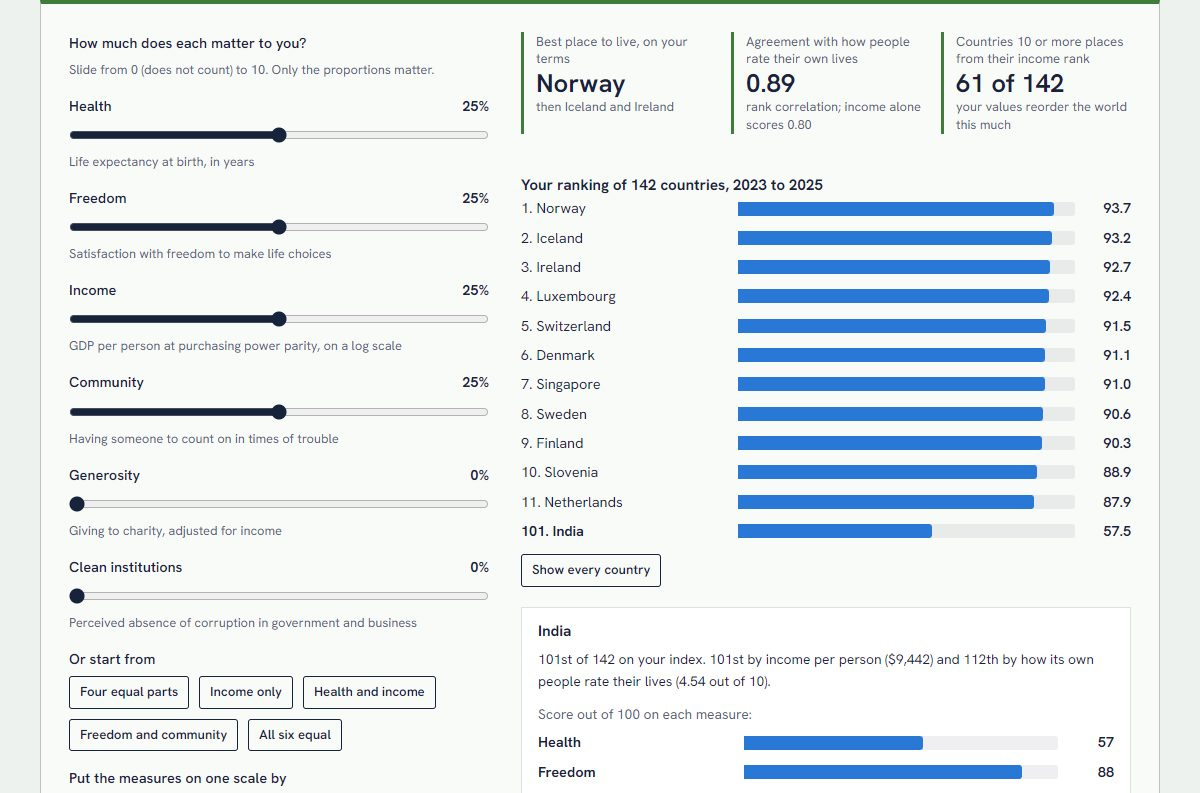
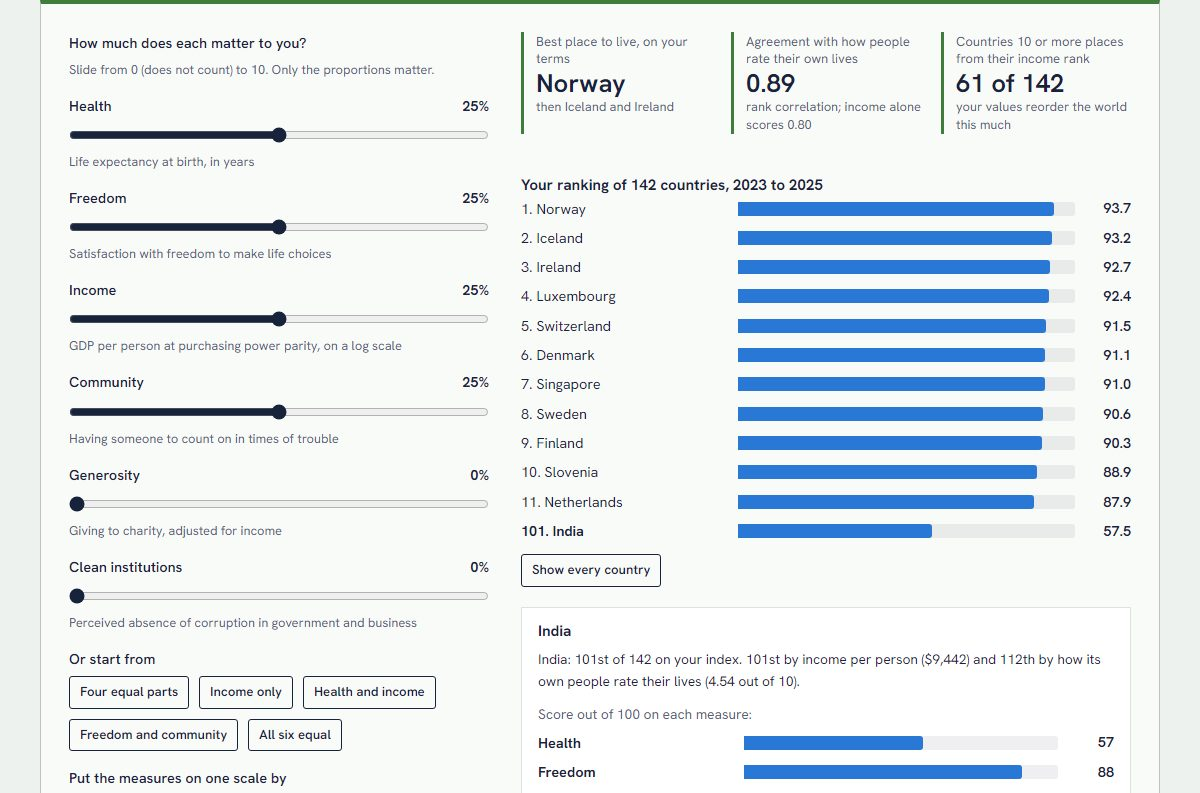
Review project 9: rank range includes single-measure rankings, quieter slider readouts

Changed region(s): [[0.4317, 0.8172, 0.925, 0.8777], [0.4317, 0.2421, 0.4933, 0.2724]]

diff --git a/365projects/9/app.js b/365projects/9/app.js
@@ -28,6 +28,9 @@ const sliders = DIMENSIONS.map((d) => slider({
   label: d.label, min: 0, max: 10, step: 1, value: state.weights[d.key], hint: d.measure,
   format: () => "", onInput: (v) => { state.weights[d.key] = v; update(); },
 }));
+// Moving one slider changes all six shares. Each readout is spoken as its own slider's value (aria-valuetext, set in
+// update), so the readouts themselves stay quiet: six announcements for one key press help nobody.
+for (const s of sliders) s.el.querySelector("output").setAttribute("aria-live", "off");
 const presetRow = el("div", { class: "row" }, PRESETS.map((p) => button(p.label, () => {
   state.weights = { ...p.w };
   sliders.forEach((s, i) => { s.value = state.weights[KEYS[i]]; });
@@ -55,12 +58,19 @@ const pick = select({
 const sTop = stat("Best place to live, on your terms");
 const sRho = stat("Agreement with how people rate their own lives");
 const sMoved = stat("Countries 10 or more places from their income rank");
-const message = el("div");
+const message = el("div", { role: "status" });
 const rankBox = el("div");
 const tableBox = el("div");
 const moreBtn = button("Show every country", () => { state.showAll = !state.showAll; update(); }, { small: true });
 const moversBox = el("div", { class: "grid2" });
-const cardBox = el("div");
+// The card for the selected country is built once and its parts updated, so that its opening line can be a live
+// region that is announced when the country or its rank changes.
+const cardTitle = el("h3");
+const cardLead = el("p", { class: "small", role: "status", style: { margin: "8px 0 12px" } });
+const profile = el("div");
+const cardRange = el("p", { class: "small", style: { marginTop: "12px" } });
+const cardBox = el("div", { class: "panel" }, cardTitle, cardLead, el("p", { class: "small muted", style: { marginBottom: "6px" }, text: "Score out of 100 on each measure:" }), profile, cardRange);
+const profileBars = bars(profile, { items: [], max: 100, format: fmt.int });
 const chartBox = el("div");
 const rankBars = bars(rankBox, { items: [], max: 100, format: (v) => fmt.num(v, 1) });
 const plot = chart(chartBox, { series: [], height: 320 });
@@ -72,36 +82,43 @@ $("#app").append(el("div", { class: "tool-grid wide-controls" },
     el("div", { class: "field" }, el("div", { class: "lab" }, el("span", { text: "Or start from" })), presetRow),
     methodSeg.el, aggSeg.el, pick.el),
   el("div", { class: "out" },
-    el("div", { class: "stats" }, sTop.el, sRho.el, sMoved.el),
+    el("div", { class: "stats", role: "status" }, sTop.el, sRho.el, sMoved.el),
     message,
     el("div", {}, el("p", { class: "chart-title", text: `Your ranking of ${rows.length} countries, ${YEAR - 2} to ${YEAR}` }), rankBox, el("div", { class: "row", style: { marginTop: "12px" } }, moreBtn), tableBox),
     cardBox, moversBox, chartBox)));
 
+// Results sit in live regions, so they are only rewritten when they change.
+const setText = (node, text) => { if (node.textContent !== text) node.textContent = text; };
+const setStat = (s, value, text) => { if (s.el.textContent !== s.el.firstChild.textContent + value + text) s.set(value, text); };
 const ordinal = (n) => `${fmt.int(n)}${["th", "st", "nd", "rd"][n % 100 > 10 && n % 100 < 14 ? 0 : Math.min(n % 10, 4) % 4]}`;
 
 function update() {
   const w = shares(state.weights);
   // Each slider shows its share of the total.
-  sliders.forEach((s, i) => { s.el.querySelector("output").textContent = w ? fmt.pct(w[KEYS[i]], 0) : "0%"; });
+  sliders.forEach((s, i) => {
+    const share = w ? fmt.pct(w[KEYS[i]], 0) : "0%";
+    s.el.querySelector("output").textContent = share;
+    s.input.setAttribute("aria-valuetext", `${s.value} out of 10, ${share} of the total weight`);
+  });
 
   if (!w) {
     message.replaceChildren(note("warn", "Every weight is zero, so there is nothing to rank by. Give at least one measure some weight."));
-    for (const s of [sTop, sRho, sMoved]) s.set("–", "");
+    for (const s of [sTop, sRho, sMoved]) setStat(s, "–", "");
     rankBars.update([]);
-    tableBox.replaceChildren(); moversBox.replaceChildren(); cardBox.replaceChildren();
-    moreBtn.hidden = true;
+    tableBox.replaceChildren(); moversBox.replaceChildren();
+    moreBtn.hidden = cardBox.hidden = true;
     plot.update({ series: [], marks: [], empty: "Nothing to plot yet" });
     return;
   }
   message.replaceChildren();
-  moreBtn.hidden = false;
+  moreBtn.hidden = cardBox.hidden = false;
 
   const ranking = rank(scored, state.weights, state.aggregate);
   const rho = spearman(ranking.map((r) => r.index), ranking.map((r) => r.ladder));
   const moved = ranking.filter((r) => Math.abs(byIncome[r.name] - r.rank) >= 10).length;
-  sTop.set(ranking[0].name, `then ${ranking[1].name} and ${ranking[2].name}`);
-  sRho.set(fmt.num(rho, 2), `rank correlation; income alone scores ${fmt.num(incomeLadderRho, 2)}`);
-  sMoved.set(`${moved} of ${rows.length}`, moved === 0 ? "your ranking is the income ranking" : "your values reorder the world this much");
+  setStat(sTop, ranking[0].name, `then ${ranking[1].name} and ${ranking[2].name}`);
+  setStat(sRho, fmt.num(rho, 2), `rank correlation; income alone scores ${fmt.num(incomeLadderRho, 2)}`);
+  setStat(sMoved, `${moved} of ${rows.length}`, moved === 0 ? "none has moved that far from the income ranking" : "your values reorder the world this much");
 
   const sel = ranking.find((r) => r.name === state.selected);
   const top = ranking.slice(0, 12);
@@ -109,32 +126,30 @@ function update() {
   rankBars.update(list.map((r) => ({ label: `${r.rank}. ${r.name}`, value: r.index, highlight: r.name === sel.name })));
 
   moreBtn.textContent = state.showAll ? "Hide the full table" : "Show every country";
-  tableBox.replaceChildren(...(state.showAll ? [el("div", { style: { marginTop: "12px", maxHeight: "420px", overflow: "auto", border: "1px solid var(--grid)", background: "#fff" } }, table({
+  const all = state.showAll ? table({
+    caption: `All ${rows.length} countries by your index`,
     columns: [
       { key: "rank", label: "Rank", num: true }, { key: "name", label: "Country" },
       { key: "index", label: "Index", num: true, format: (v) => fmt.num(v, 1) },
       ...DIMENSIONS.filter((d) => w[d.key] > 0).map((d) => ({ key: d.key, label: d.label, num: true, format: (_, r) => fmt.int(r.scores[d.key]) })),
-      { key: "inc", label: "Rank by income", num: true, format: (_, r) => byIncome[r.name] },
-      { key: "own", label: "Rank by own rating", num: true, format: (_, r) => byLadder[r.name] },
+      { key: "inc", label: "By income", num: true, format: (_, r) => byIncome[r.name] },
+      { key: "own", label: "By own rating", num: true, format: (_, r) => byLadder[r.name] },
     ],
     rows: ranking,
-  }))] : []));
+  }) : null;
+  all?.classList.add("all");
+  tableBox.replaceChildren(...(all ? [el("p", { class: "small muted", style: { margin: "12px 0 0" }, text: "Each measure you count is shown as its score out of 100. The last two columns are the country's rank by income and by how its people rate their own lives." }), all] : []));
 
   // The selected country.
   if (!ranges) ranges = rankRange(scored, MAIN, { samples: 1000, seed: 9, aggregate: state.aggregate });
   const range = ranges.get(sel.name);
-  const profile = el("div");
-  bars(profile, { items: DIMENSIONS.map((d) => ({ label: `${d.label}${w[d.key] > 0 ? "" : " (not counted)"}`, value: sel.scores[d.key], highlight: w[d.key] > 0 })), max: 100, format: fmt.int });
-  cardBox.replaceChildren(el("div", { class: "panel" },
-    el("h3", { text: sel.name }),
-    el("p", { class: "small", style: { margin: "8px 0 12px" } },
-      `${ordinal(sel.rank)} of ${rows.length} on your index. ${ordinal(byIncome[sel.name])} by income per person ($${fmt.int(sel.gdp)}) and ${ordinal(byLadder[sel.name])} by how its own people rate their lives (${fmt.num(sel.ladder, 2)} out of 10).`),
-    el("p", { class: "small muted", style: { marginBottom: "6px" }, text: "Score out of 100 on each measure:" }),
-    profile,
-    el("p", { class: "small", style: { marginTop: "12px" } },
-      range.best === range.worst
-        ? `However health, freedom, income and community are weighted, ${sel.name} stays ${ordinal(range.best)}.`
-        : `Across 1,000 random ways of weighting health, freedom, income and community, ${sel.name} ranks anywhere from ${ordinal(range.best)} to ${ordinal(range.worst)}, and between ${ordinal(range.lo)} and ${ordinal(range.hi)} in nine cases out of ten. ${range.worst - range.best > 60 ? "Its place depends heavily on what you think matters." : range.worst - range.best < 20 ? "Its place hardly depends on the weights." : ""}`)));
+  setText(cardTitle, sel.name);
+  setText(cardLead, `${sel.name}: ${ordinal(sel.rank)} of ${rows.length} on your index. ${ordinal(byIncome[sel.name])} by income per person ($${fmt.int(sel.gdp)}) and ${ordinal(byLadder[sel.name])} by how its own people rate their lives (${fmt.num(sel.ladder, 2)} out of 10).`);
+  profileBars.update(DIMENSIONS.map((d) => ({ label: `${d.label}${w[d.key] > 0 ? "" : " (not counted)"}`, value: sel.scores[d.key], highlight: w[d.key] > 0 })));
+  // No country name as the subject, so the sentence reads correctly for "United States" and "Netherlands" too.
+  setText(cardRange, range.best === range.worst
+    ? `However health, freedom, income and community are weighted, its rank stays ${ordinal(range.best)}.`
+    : `Its rank runs from ${ordinal(range.best)} to ${ordinal(range.worst)} across 1,000 random ways of weighting health, freedom, income and community, together with the four that count one of them alone. In nine of every ten random weightings it lies between ${ordinal(range.lo)} and ${ordinal(range.hi)}.${range.worst - range.best > 60 ? " Its place depends heavily on what you think matters." : range.worst - range.best < 20 ? " Its place hardly depends on the weights." : ""}`);
 
   // Movers against the income ranking.
   const m = movers(ranking, byIncome, 5);
@@ -143,7 +158,11 @@ function update() {
     columns: [{ key: "name", label: "Country" }, { key: "was", label: "By income", num: true }, { key: "rank", label: "Yours", num: true }, { key: "change", label: "Places", num: true, format: (v) => fmt.signed(v, 0) }],
     rows: list,
   });
-  moversBox.replaceChildren(moverTable("Rise most when your values replace income", m.up), moverTable("Fall most", m.down));
+  // Only countries that actually moved: with all the weight on income nobody does.
+  const up = m.up.filter((r) => r.change > 0), down = m.down.filter((r) => r.change < 0);
+  moversBox.replaceChildren(...(up.length || down.length
+    ? [up.length ? moverTable("Rise most when your values replace income", up) : null, down.length ? moverTable("Fall most", down) : null].filter(Boolean)
+    : [note("", "No country changes place: with these weights your ranking is the income ranking.")]));
 
   plot.update({
     title: "Does your index match how people rate their own lives?",

diff --git a/365projects/9/index.html b/365projects/9/index.html
@@ -10,6 +10,17 @@
   <link rel="icon" href="../../assets/favicon.svg" type="image/svg+xml">
   <link rel="stylesheet" href="../../assets/site.css">
   <link rel="stylesheet" href="../kit/kit.css">
+  <style>
+    /* Country and measure names are shown in full and wrap on a narrow screen: the kit's bars cut them with an ellipsis. */
+    #app .hbar .name { white-space: normal; overflow: visible; overflow-wrap: anywhere; line-height: 1.25; }
+    /* The full table scrolls inside its own box, with the column headings and the country names kept in view. */
+    #app .all { max-height: 420px; overflow: auto; margin-top: 8px; border: 1px solid var(--grid); background: #fff; }
+    #app .all caption { padding: 8px 10px 6px; font-weight: 600; font-size: 0.86rem; }
+    #app .all th, #app .all td { padding: 6px 8px; }
+    #app .all thead th { position: sticky; top: 0; z-index: 2; background: #fff; box-shadow: inset 0 -1.5px 0 var(--ink); white-space: normal; vertical-align: bottom; }
+    #app .all th:nth-child(2), #app .all td:nth-child(2) { position: sticky; left: 0; z-index: 1; background: #fff; }
+    #app .all thead th:nth-child(2) { z-index: 3; }
+  </style>
 </head>
 <body class="proj" data-day="9">
   <main class="wrap">
@@ -29,7 +40,7 @@
 
     <section class="p-sec">
       <h2>The idea</h2>
-      <p>For most of the twentieth century the standard answer to "which country is doing best?" was the one with the highest income per head. Amartya Sen's objection was that income is a means. What matters is what people are actually able to do and be: live a long life, take part in their community, choose how to live. He called these <strong>capabilities</strong>, and the argument led directly to the United Nations' Human Development Index in 1990, which put health and education beside income.</p>
+      <p>For decades the standard answer to "which country is doing best?" was the one with the highest income per head. Amartya Sen's objection was that income is a means. What matters is what people are actually able to do and be: live a long life, take part in their community, choose how to live. He called these <strong>capabilities</strong>, and his work underlies the United Nations' Human Development Index, launched in 1990, which put health and education beside income.</p>
       <p>The trouble starts as soon as there is more than one good thing. To turn several measures into one ranking you have to say how much of one is worth how much of another, and there is no fact of the matter about that. This is <strong>value pluralism</strong>: the view that the things worth wanting are several, and do not reduce to a common currency. Sen himself declined to fix a list of capabilities or their weights, arguing that it was a matter for public reasoning. Martha Nussbaum thought a list was needed and wrote one.</p>
       <p>So an index is not a measurement in the way a thermometer reading is. It is a measurement combined with an ethical position, and the position is in the weights. The honest thing an index-maker can do is show the weights and let you move them. That is what this page does.</p>
     </section>
@@ -37,7 +48,7 @@
     <section class="p-sec">
       <h2>How it works</h2>
       <h3>The measures</h3>
-      <p>Six measures for each of 142 countries, averaged over 2023 to 2025. Health is life expectancy at birth and income is GDP per person at purchasing power parity, both from the World Bank. Income enters as a logarithm, so that doubling it counts the same anywhere. Freedom, community, generosity and clean institutions are the factor values published by the World Happiness Report from Gallup World Poll questions.</p>
+      <p>Six measures for each of 142 countries. Income is GDP per person at purchasing power parity, averaged over 2023 to 2025, and health is life expectancy at birth, averaged over 2023 and 2024, the latest years published; both are from the World Bank. Income enters as a logarithm, so that doubling it counts the same anywhere. Freedom, community, generosity and clean institutions come from Gallup World Poll questions asked from 2023 to 2025. The page uses the amount the World Happiness Report attributes to each factor in a country's score: the national average on the question, less the lowest national average, times a fixed coefficient. Putting a measure on a 0 to 100 scale removes the coefficient, so the scores are the ones the raw averages would give.</p>
       <h3>A common scale</h3>
       <p>Years of life and dollars cannot be added, so each measure is first put on a scale from 0 to 100. With the <em>distance</em> method the lowest country on a measure scores 0, the highest 100, and the rest fall in proportion:</p>
       <p class="eq"><var>s</var><sub><var>ik</var></sub> = 100 · (<var>x</var><sub><var>ik</var></sub> − min<sub><var>k</var></sub>) / (max<sub><var>k</var></sub> − min<sub><var>k</var></sub>)</p>
@@ -49,7 +60,7 @@
       <h3>The comparisons</h3>
       <p>The page compares your ranking with two others: the ranking by income alone, and the ranking by the Cantril ladder, which is how people in each country rate their own lives from 0 to 10. Agreement is measured by Spearman's rank correlation, which is the ordinary correlation applied to the two lists of ranks.</p>
       <h3>How much the weights matter</h3>
-      <p>For the country you select, the page draws 1,000 random weightings of health, freedom, income and community (every way of splitting 100% between the four is equally likely), ranks all countries under each, and reports the range of positions the country takes. A narrow range means its standing does not depend on your values. A wide one means it does.</p>
+      <p>For the country you select, the page draws 1,000 random weightings of health, freedom, income and community (every way of splitting 100% between the four is equally likely), ranks all countries under each, and reports the range of positions the country takes. A random split almost never puts everything on one measure, which is where a rank is usually at its best or worst, so the four rankings by one measure alone are counted as well when the highest and lowest positions are reported. The band for "nine of every ten" comes from the random weightings only. The draws use a fixed seed, so the same numbers come back every time, and they follow the scale and the combining rule you have chosen but not your own weights. A narrow range means the country's standing does not depend on your values. A wide one means it does.</p>
     </section>
 
     <section class="p-sec">
@@ -80,7 +91,7 @@
       <ul class="refs">
         <li>Helliwell, J. F., Layard, R., Sachs, J. D., De Neve, J.-E., Aknin, L. B., and Wang, S. (eds.) (2026). <em>World Happiness Report 2026</em>. University of Oxford: Wellbeing Research Centre. Data for Figure 2.1.</li>
         <li>World Bank, World Development Indicators: GDP per capita, PPP, constant 2021 international $ (NY.GDP.PCAP.PP.KD) and life expectancy at birth (SP.DYN.LE00.IN). CC BY 4.0. Retrieved 10 October 2026.</li>
-        <li>Sen, A. (1999). <em>Development as Freedom</em>. Oxford University Press.</li>
+        <li>Sen, A. (1999). <em>Development as Freedom</em>. New York: Knopf.</li>
         <li>Nussbaum, M. C. (2011). <em>Creating Capabilities: The Human Development Approach</em>. Harvard University Press.</li>
         <li>United Nations Development Programme (1990). <em>Human Development Report 1990</em>, and (2010) <em>Human Development Report 2010</em>, which introduced the geometric mean.</li>
       </ul>

diff --git a/365projects/9/logic.js b/365projects/9/logic.js
@@ -103,7 +103,9 @@ export function rankBy(rows, value) {
 /**
  * How much does a country's rank depend on the weights? Draw `samples` random weightings of the chosen
  * dimensions (uniform over all the ways of splitting 100%), rank everyone each time, and report each
- * country's best, worst and middle 90% of ranks.
+ * country's best, worst and middle 90% of ranks. Random draws almost never land on the extreme case of all the
+ * weight on one dimension, which is where a rank is usually best or worst, so those cases are ranked as well
+ * and count towards best and worst (not towards the middle 90%, which describes the random draws only).
  */
 export function rankRange(scored, keys, { samples = 2000, seed = 9, aggregate = "arithmetic" } = {}) {
   const r = rng(seed);
@@ -113,9 +115,11 @@ export function rankRange(scored, keys, { samples = 2000, seed = 9, aggregate = 
     const w = Object.fromEntries(KEYS.map((k) => [k, keys.includes(k) ? r.exponential(1) : 0]));
     for (const c of rank(scored, w, aggregate)) seen.get(c.name).push(c.rank);
   }
+  const alone = new Map(scored.map((c) => [c.name, []]));
+  for (const key of keys) for (const c of rank(scored, { [key]: 1 }, aggregate)) alone.get(c.name).push(c.rank);
   const out = new Map();
   for (const [name, list] of seen) {
-    out.set(name, { best: stats.min(list), worst: stats.max(list), lo: Math.round(stats.quantile(list, 0.05)), median: Math.round(stats.median(list)), hi: Math.round(stats.quantile(list, 0.95)) });
+    out.set(name, { best: Math.min(stats.min(list), ...alone.get(name)), worst: Math.max(stats.max(list), ...alone.get(name)), lo: Math.round(stats.quantile(list, 0.05)), median: Math.round(stats.median(list)), hi: Math.round(stats.quantile(list, 0.95)) });
   }
   return out;
 }
